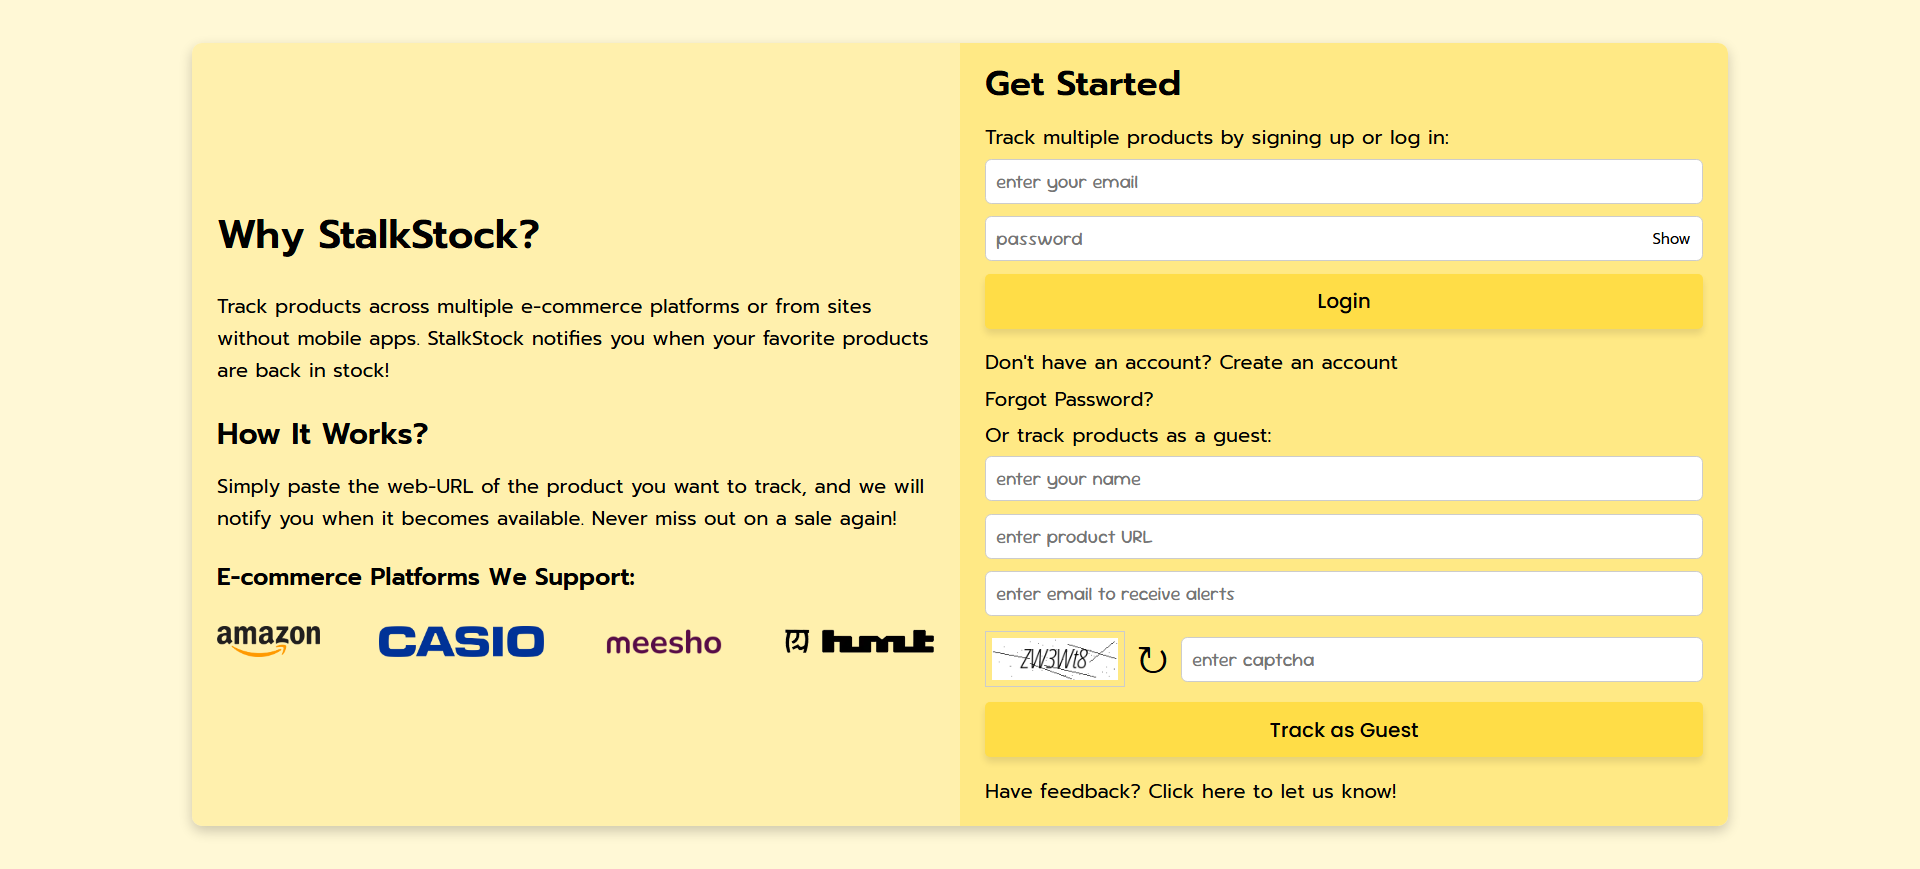
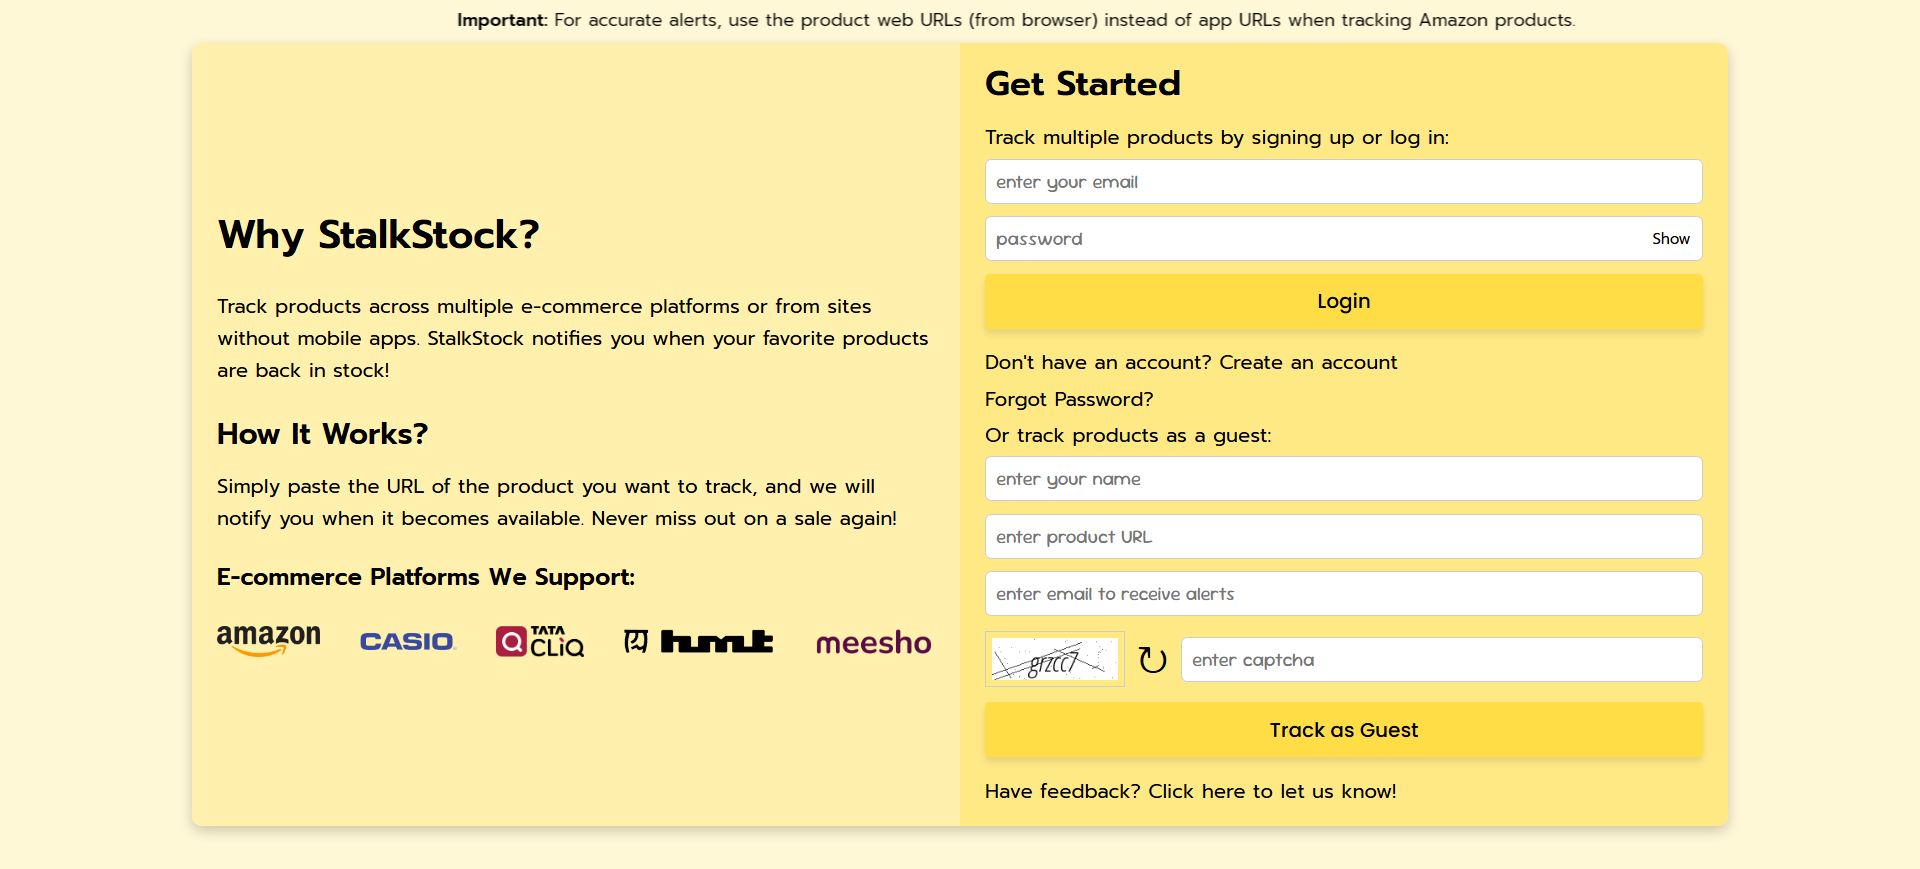
updated: README.md

diff --git a/scrolling_text.php b/scrolling_text.php
@@ -20,7 +20,7 @@
 
     .scrolling-text {
         white-space: nowrap;
-        font-size: 1rem;
+        font-size: 0.9rem;
         animation: scrollText 25s linear infinite;
     }
 
@@ -51,8 +51,8 @@
     @media (max-width: 576px) {
         .scrolling-text {
             font-size: 0.7rem;
-            animation: scrollText 12s linear infinite;
-            width: calc(100% + 100px);
+            animation: scrollText 20s linear infinite;
+            width: calc(200%);
         }
     }
 </style>

diff --git a/README.md b/README.md
@@ -23,10 +23,11 @@ StalkStock is a web-based application designed to help you track product availab
 
 ### Supported Websites
 
+- [Amazon](https://www.amazon.in/)
+- [Casio India](https://www.casioindiashop.com/)
+- [Tata Cliq Fashion](https://www.tatacliq.com/)
 - [HMT Watches](https://www.hmtwatches.in/)
 - [Meesho](https://www.meesho.com/)
-- [Casio India](https://www.casioindiashop.com/)
-- [Amazon](https://www.amazon.in/)
 
 ---
 
@@ -36,7 +37,7 @@ StalkStock is a web-based application designed to help you track product availab
 
 ##### a) Guests:
 
-- Can track up to **3 product URLs** per email ID.
+- Can track up to **3 product URLs** per email ID daily.
 
 ##### b) Registered Users:
 
@@ -98,7 +99,7 @@ The web application is hosted at: stalkstock.in
 - Signup Page : ![Signup Page](media/screenshots/signup_page.png)
 - User Dashboard : ![User Dashboard](media/screenshots/user_dashboard.png)
 - Forgot Password Page : ![Forgot Password Page](media/screenshots/forgot_password.png)
-- xReset Password Page : ![Reset Password Page](media/screenshots/reset_password.png)
+- Reset Password Page : ![Reset Password Page](media/screenshots/reset_password.png)
 
 ---
 
